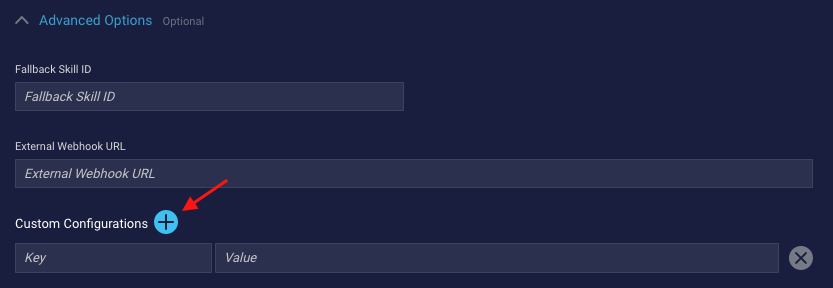
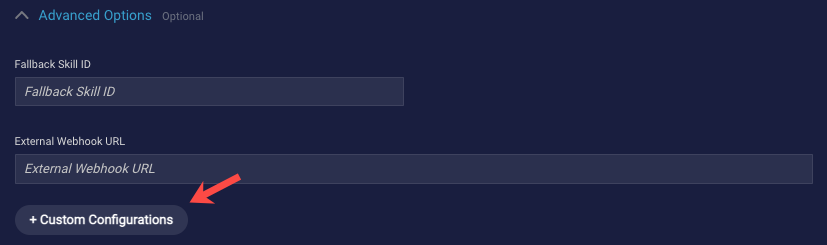
BA-6352 UI consistency - update custom config  fld

diff --git a/pages/Documents/ConversationalAI/ConversationBuilder/Testing&Deployment/deploying-to-conversational-cloud.md b/pages/Documents/ConversationalAI/ConversationBuilder/Testing&Deployment/deploying-to-conversational-cloud.md
@@ -70,7 +70,7 @@ An agent can belong to only one bot.
 6. If desired, click **Advanced Options** and specify any optional, advanced settings:
     - **Fallback Skill ID**: If the skill (that you assigned to the bot agent) has a defined fallback skill, you can enter the fallback skill's ID here. The fallback skill is the skill to which to route the conversation as a fallback if no agents with the primary skill have free capacity. Fallback skills have several uses, but they're often used to escalate (transfer) a conversation from a bot agent to a live agent. You define fallback skills for skills in Conversational Cloud. For more on this, see the [LivePerson Knowledge Center](https://knowledge.liveperson.com).
     - **External Webhook URL**: This option is for brands that want to use HTTP instead of WebSocket for connection to Conversational Cloud. Enter the URL to which the HTTP connector will post user messages to external endpoints.
-    - **Custom Configurations**: If desired, click " + ", and enter any custom configuration fields to set. For information on these, see "Custom configuration fields" later in this topic.
+    - **Custom Configurations**: If desired, click **+ Custom Configurations**, and enter any custom configuration fields to set. For information on these, see "Custom configuration fields" later in this topic.
     - **Accessibility**: Select this if you want the bot messages to support Accessibility. If you select this, the fields sent in the JSON object have the tooltip attribute.
 7. Click **Save**.
 
